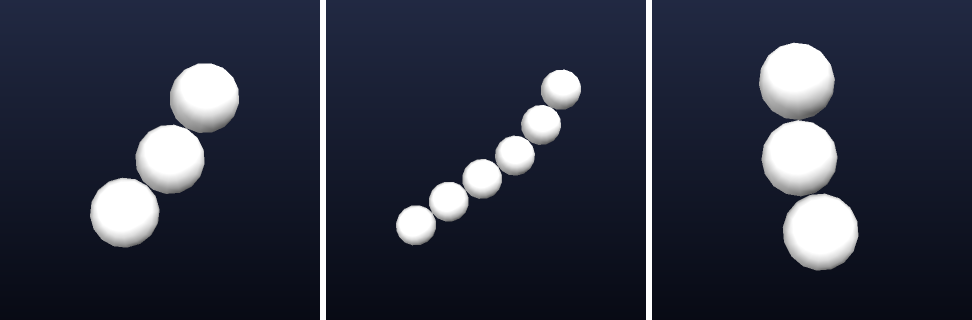
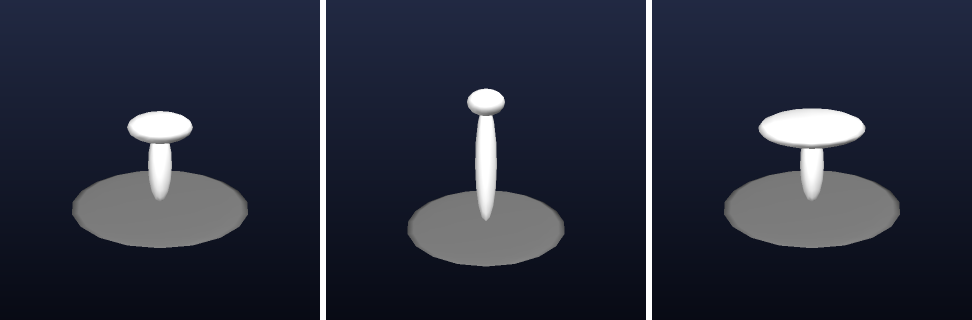
Use a mushroom for the variants examples (#139)
## What changed
The variants examples in LANGUAGE.md 6.6 and REFERENCE.md `variant`
talked about a cobra's hood and coils but drew rows of balls. Both now
use a mushroom: a stem height, a cap width and (in LANGUAGE.md) a cap
colour, all smooth genes, so the variants morph without anything
jumping. A patch of ground in each picture keeps the three panels at
nearly the same scale.

REFERENCE.md no longer sets `seed` in its example: a new seed redraws
every random number at once halfway through a morph, so it can't be
shown in a family that morphs smoothly. Its remark went with it.

## How tested
`npm run check` passes (818 tests); both pictures checked by eye.

## Release
Nothing to release.

🤖 Generated with [Claude Code](https://claude.com/claude-code)

---------

Changed region(s): [[0.7407, 0.125, 0.9259, 0.8438], [0.4012, 0.2188, 0.6173, 0.8438], [0.0617, 0.1875, 0.2778, 0.7812]]

diff --git a/docs/REFERENCE.md b/docs/REFERENCE.md
@@ -155,45 +155,42 @@ variant Name { gene = value; … }
 - Each setting is on its own line, or separated by `;`. A gene can be set at most once in a variant.
 - A variant only lists the genes it changes. Every other gene keeps the value on its own `gene`
   line, and follows that line if you change it later. In the example below, `Wide` doesn't mention
-  `coils`, so it has 3 coils, like the creature itself.
-- A creature that uses [random](#random) has a hidden gene, `seed`, which picks its random
-  numbers. It has no `gene` line, but a variant can still set it: in the example, `seed = 42` gives
-  `Wide` its own wiggle, while `Coiled` keeps the creature's seed, 0.
+  `stem`, so its stem is 2, like the creature's own.
 - Variants don't change what the program does. The app uses them where it wants a family of
   related creatures: a creature's morph loops through itself and then each variant in order.
 
 **Example**
 
-<!-- picture: variant variants=all view=top -->
+<!-- picture: variant variants=all view=0,20 -->
 
 ```
-creature Cobra
+creature Mushroom
 
-gene hood = 1.2 in 0.5..2
-gene coils = 3 in 1..6 step 1
+gene stem = 2 in 0.5..4
+gene cap = 1.6 in 0.8..3
 
-grow hood
-repeat coils {
-  yaw random(-20, 20) // each coil bends a random way
-  forward 1
-  lay
-}
+pitch -90 // grow upwards
+colour grey
+lay { grow (4.5, 4.5, 0.1) } // the ground
+forward stem / 2
+colour white
+lay { grow (0.6, 0.6, stem) } // the stem
+forward stem / 2
+lay { grow (cap, cap, 0.7) } // the cap
 
-variant Coiled { coils = 6; hood = 0.8 }
+variant Tall { stem = 3.5; cap = 1 }
 
 variant Wide {
-  hood = 2
-  seed = 42 // bends its coils other ways
+  cap = 2.6
 }
 ```
 
-![Seen from above, side by side: the creature (3 balls), Coiled (6 balls) and Wide (3 balls bending other ways)](images/variant.png)
+![Seen from the front, side by side, three mushrooms on grey ground: the creature, Tall (a longer stem and a smaller cap) and Wide (the same stem and a wide cap)](images/variant.png)
 
-| Gene    | The creature | `Coiled` | `Wide`                        |
-| ------- | ------------ | -------- | ----------------------------- |
-| `hood`  | 1.2          | 0.8      | 2                             |
-| `coils` | 3            | 6        | 3, from the `gene coils` line |
-| `seed`  | 0            | 0        | 42                            |
+| Gene   | The creature | `Tall` | `Wide`                       |
+| ------ | ------------ | ------ | ---------------------------- |
+| `stem` | 2            | 3.5    | 2, from the `gene stem` line |
+| `cap`  | 1.6          | 1      | 2.6                          |
 
 **See also:** [gene](#gene), [Variants](LANGUAGE.md#66-variants)
 

diff --git a/docs/LANGUAGE.md b/docs/LANGUAGE.md
@@ -367,33 +367,37 @@ part wing(reach, side) { … }
 
 A creature can keep other sets of gene values alongside its own: its **variants**. Together with
 the creature itself, they form a family of related creatures that share one program, such as the
-members of an evolved population.
+members of an evolved population. In the example, `Tall` has a longer stem and a smaller cap than
+the creature, and `Toadstool` a wider, bright red cap:
 
-<!-- picture: variants variants=all view=right -->
+<!-- picture: variants variants=all view=0,20 -->
 
 ```
-creature Cobra
+creature Mushroom
 
-gene hood = 1.2 in 0.5..2 // how wide the hood spreads
-gene coils = 3 in 1..6 step 1
-gene skin = hsv(120, 0.7, 0.8) in hsv(60, 0.3, 0.5)..hsv(180, 1, 1)
+gene stem = 2 in 0.5..4 // how tall the stem grows
+gene cap = 1.6 in 0.8..3 // how wide the cap spreads
+gene skin = hsv(30, 0.6, 0.7) in hsv(0, 0.3, 0.4)..hsv(60, 1, 1)
 
-grow hood
-repeat coils {
-  colour skin
-  forward 1
-  lay
-}
+pitch -90 // grow upwards
+colour hsv(100, 0.5, 0.5)
+lay { grow (4.5, 4.5, 0.1) } // the ground
+forward stem / 2
+colour white
+lay { grow (0.6, 0.6, stem) } // the stem
+forward stem / 2
+colour skin
+lay { grow (cap, cap, 0.7) } // the cap
 
-variant Coiled { coils = 6; hood = 0.8 }
+variant Tall { stem = 3.5; cap = 1 }
 
-variant Striker {
-  hood = 2
-  skin = hsv(70, 0.9, 1) // bright, to warn others off
+variant Toadstool {
+  cap = 2.6
+  skin = hsv(0, 0.9, 0.9) // bright red, to warn others off
 }
 ```
 
-![Seen from the side, three green snakes: the creature itself (3 coils), Coiled (6 coils) and Striker (bright yellow-green)](images/variants.png)
+![Seen from the front, three mushrooms on patches of grass: the creature itself (a brown cap on a white stem), Tall (a longer stem and a smaller cap) and Toadstool (a wide bright red cap)](images/variants.png)
 
 - `variant Name { … }` sets genes by their **full names** ([6.3](#63-full-names)), one per line
   (or separated by `;`): `petals = 9`, `whorl.petals = 9`, `background.hue = 200`, `seed = 42`.
